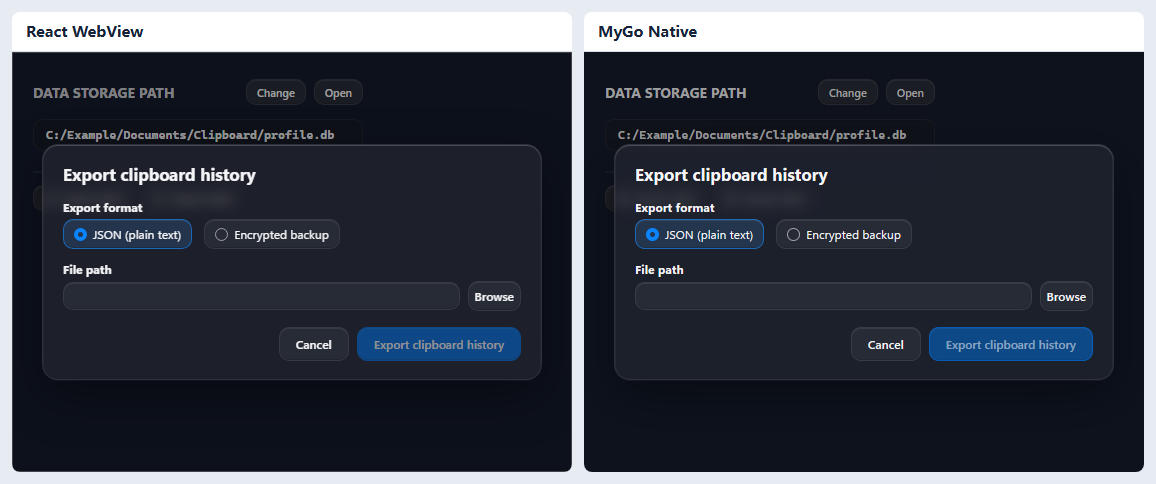
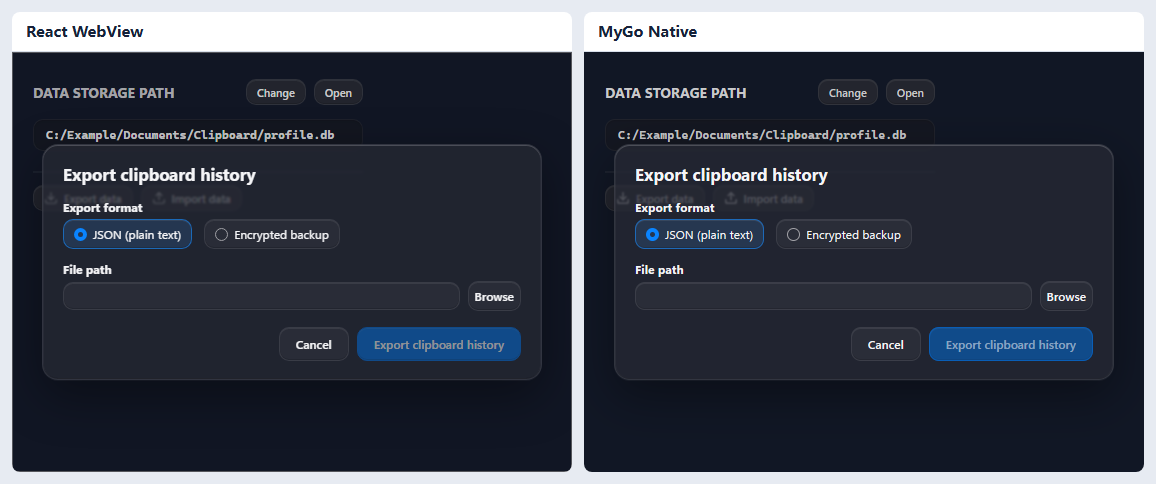
Preserve detail behind Liquid Glass backup dialogs

diff --git a/packages/ui-react/src/styles/components/data-settings.css b/packages/ui-react/src/styles/components/data-settings.css
@@ -311,7 +311,7 @@
 }
 
 .theme-liquid-glass .data-modal-overlay {
-  --backup-panel-bg: var(--lg-dialog-bg);
+  --backup-panel-bg: rgba(255, 255, 255, calc(0.54 + 0.14 * var(--surface-layer-scale, 1)));
   --backup-panel-border: var(--lg-dialog-border);
   --backup-panel-shadow: var(--lg-dialog-shadow);
   --backup-panel-radius: 16px;
@@ -336,6 +336,18 @@
   background: rgba(0, 0, 0, 0.36);
 }
 
+.theme-liquid-glass .data-modal-overlay::backdrop {
+  background: rgba(0, 0, 0, 0.12);
+}
+
+.theme-liquid-glass.dark-mode .data-modal-overlay {
+  --backup-panel-bg: rgba(38, 41, 52, calc(0.59 + 0.14 * var(--surface-layer-scale, 1)));
+}
+
+.theme-liquid-glass.dark-mode .data-modal-overlay::backdrop {
+  background: rgba(0, 0, 0, 0.18);
+}
+
 :is(.theme-macos, .theme-liquid-glass) .data-modal-content {
   background: var(--backup-panel-bg);
   border: 1px solid var(--backup-panel-border);
@@ -345,7 +357,9 @@
 }
 
 .theme-liquid-glass .data-modal-content {
-  backdrop-filter: blur(6px);
+  /* A small radius softens edges while preserving fine detail through the glass. */
+  backdrop-filter: blur(1px);
+  -webkit-backdrop-filter: blur(1px);
 }
 
 :is(.theme-macos, .theme-liquid-glass) .data-modal-title {

diff --git a/packages/ui-native/uikit/backup_material_test.go b/packages/ui-native/uikit/backup_material_test.go
@@ -11,7 +11,7 @@ func TestBackupGlassSoftensOnlyTheAreaCoveredByTheDialog(t *testing.T) {
 	open := false
 	kit := Kit{widgets: map[string]theme.WidgetStyle{
 		"backupBackdrop": {Opacity: 1},
-		"backupDialog":   {Width: 220, Radius: 16, BackdropBlur: 6, Opacity: 1, Fill: [4]uint8{248, 250, 255, 48}},
+		"backupDialog":   {Width: 220, Radius: 16, BackdropBlur: 1, Opacity: 1, Fill: [4]uint8{255, 255, 255, 161}},
 	}}
 	view := ui.NewTester(func(c *ui.Context) {
 		ui.Box(c).Fill().Background(ui.RGB(255, 255, 255)).Draw(func(p *ui.Painter, bounds ui.Rect) {
@@ -36,10 +36,10 @@ func TestBackupGlassSoftensOnlyTheAreaCoveredByTheDialog(t *testing.T) {
 			t.Errorf("pixel outside the sheet changed at (%d,%d): %v -> %v", x, y, before, after)
 		}
 	}
-	sharp := withoutDialog.RGBAAt(141, 140).R
-	soft := withDialog.RGBAAt(141, 140).R
-	dark, bright := withDialog.RGBAAt(210, 140).R, withDialog.RGBAAt(165, 140).R
-	if int(soft)-int(sharp) < 80 || int(bright)-int(dark) < 140 {
-		t.Errorf("glass should soften narrow details while retaining broad contrast: stripe %d -> %d, dark=%d, light=%d", sharp, soft, dark, bright)
+	stroke := int(withDialog.RGBAAt(141, 140).R)
+	edge := int(withDialog.RGBAAt(142, 140).R)
+	dark, bright := int(withDialog.RGBAAt(210, 140).R), int(withDialog.RGBAAt(165, 140).R)
+	if bright-stroke < 50 || bright-edge < 10 || edge <= stroke || bright-dark < 90 {
+		t.Errorf("glass should retain a two-pixel stroke with softened edges: stroke=%d, edge=%d, dark=%d, light=%d", stroke, edge, dark, bright)
 	}
 }

diff --git a/README.md b/README.md
@@ -314,7 +314,7 @@ go get github.com/qiyuanhuakai/deziro-ui/packages/ui-presets@v0.1.1
 | 加密备份导出 | ![加密备份的密码和确认输入框](docs/comparisons/liquid-glass-light/backup-dialog-encrypted.png) |
 | 备份导入 | ![导入方式、文件路径和内容预览](docs/comparisons/liquid-glass-light/backup-dialog-import.png) |
 | 确认覆盖导入 | ![勾选后启用覆盖导入](docs/comparisons/liquid-glass-light/backup-dialog-replace.png) |
-| 玻璃弹窗背景 | ![玻璃弹窗内的局部背景虚化](docs/comparisons/liquid-glass-light/backup-dialog-glass.png) |
+| 玻璃弹窗背景 | ![浅色玻璃下仍可辨认的设置页内容](docs/comparisons/liquid-glass-light/backup-dialog-glass.png) |
 | 更新下载进度 | ![当前版本、通道版本和下载百分比](docs/comparisons/liquid-glass-light/settings-update.png) |
 | 更新签名与安装状态 | ![验证通过后的安装和重启状态](docs/comparisons/liquid-glass-light/settings-update-installing.png) |
 | 更新操作 | ![检查、安装和发布页](docs/comparisons/liquid-glass-light/settings-update-actions.png) |
@@ -422,7 +422,7 @@ go get github.com/qiyuanhuakai/deziro-ui/packages/ui-presets@v0.1.1
 | 加密备份导出 | ![加密备份的密码和确认输入框](docs/comparisons/liquid-glass-dark/backup-dialog-encrypted.png) |
 | 备份导入 | ![导入方式、文件路径和内容预览](docs/comparisons/liquid-glass-dark/backup-dialog-import.png) |
 | 确认覆盖导入 | ![勾选后启用覆盖导入](docs/comparisons/liquid-glass-dark/backup-dialog-replace.png) |
-| 玻璃弹窗背景 | ![玻璃弹窗内的局部背景虚化](docs/comparisons/liquid-glass-dark/backup-dialog-glass.png) |
+| 玻璃弹窗背景 | ![深色玻璃下仍可辨认的设置页内容](docs/comparisons/liquid-glass-dark/backup-dialog-glass.png) |
 | 更新下载进度 | ![当前版本、通道版本和下载百分比](docs/comparisons/liquid-glass-dark/settings-update.png) |
 | 更新签名与安装状态 | ![验证通过后的安装和重启状态](docs/comparisons/liquid-glass-dark/settings-update-installing.png) |
 | 更新操作 | ![检查、安装和发布页](docs/comparisons/liquid-glass-dark/settings-update-actions.png) |
